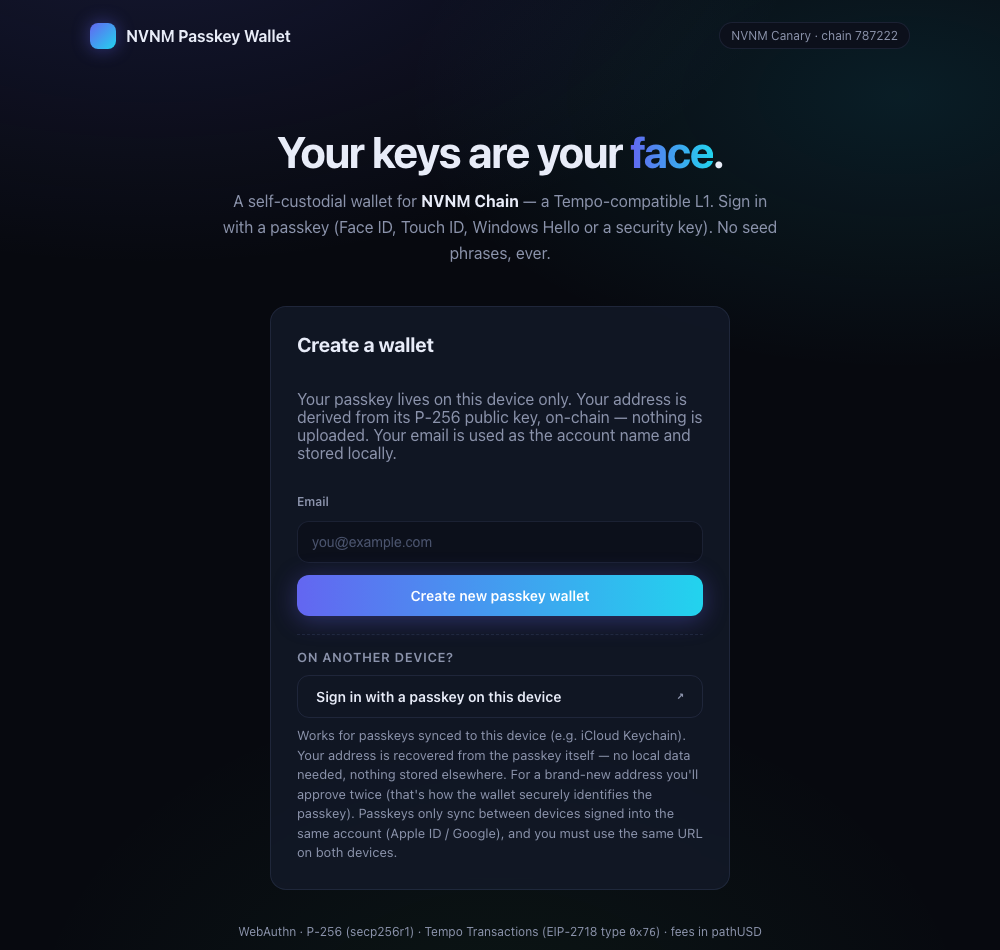
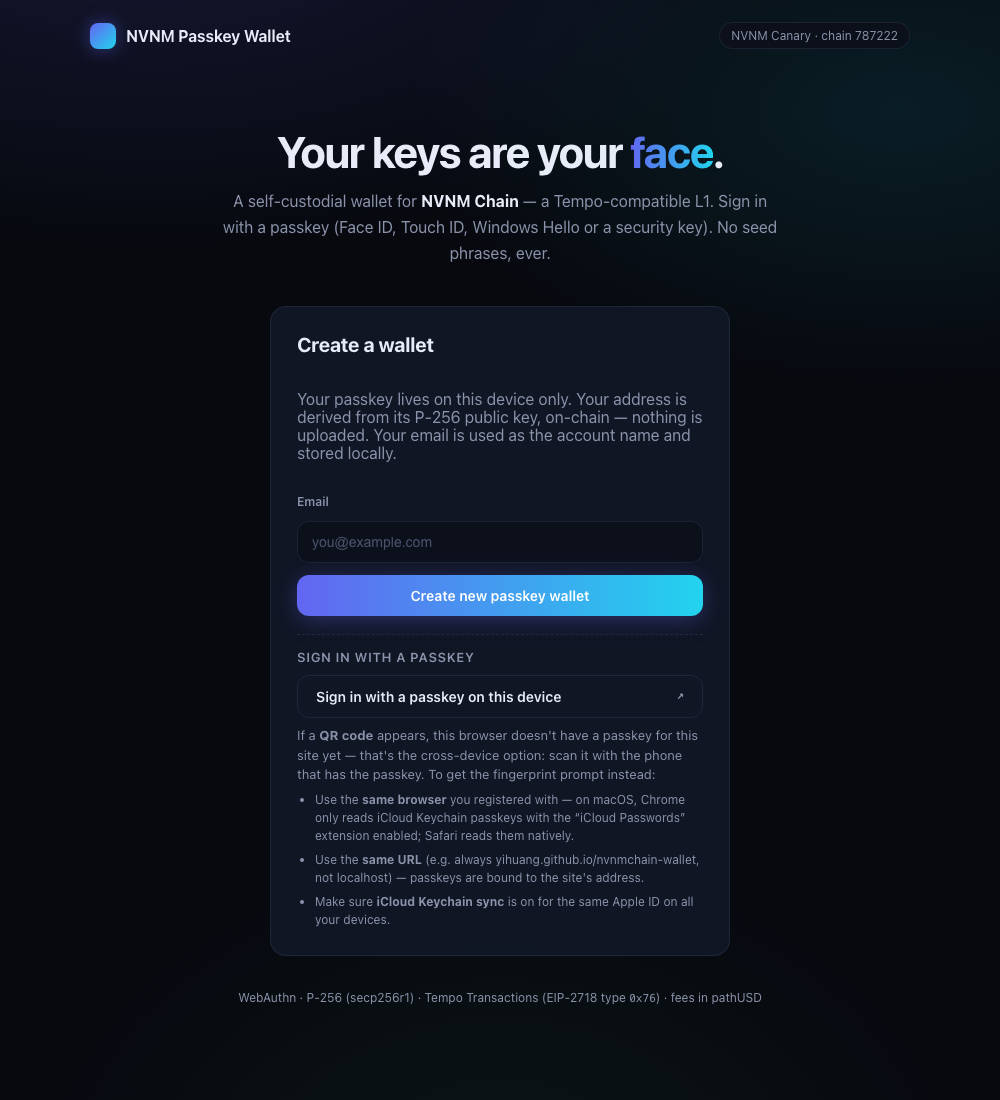
Passkey login UX: explain the QR fallback, prefer Touch ID
When a QR code appears instead of a fingerprint prompt, the browser has no
passkey for this site locally — it's the cross-device option. The connect
screen now explains the three causes (browser mismatch — Chrome needs the
iCloud Passwords extension; URL mismatch — passkeys are origin-bound;
iCloud Keychain sync) and the sign-in flow first tries locally-known
credentials via allowCredentials so Touch ID is prompted directly whenever
the passkey is actually in this browser.

diff --git a/src/components/ConnectScreen.tsx b/src/components/ConnectScreen.tsx
@@ -129,7 +129,7 @@ export function ConnectScreen({
           )}
 
           <div className="existing">
-            <h3>On another device?</h3>
+            <h3>Sign in with a passkey</h3>
             <button
               className="btn ghost existing-row"
               onClick={handleDiscoverableLogin}
@@ -139,14 +139,28 @@ export function ConnectScreen({
               <span className="existing-meta">↗</span>
             </button>
             <p className="muted small cross-device-hint">
-              Works for passkeys synced to this device (e.g. iCloud Keychain).
-              Your address is recovered from the passkey itself — no local data
-              needed, nothing stored elsewhere. For a brand-new address you'll
-              approve twice (that's how the wallet securely identifies the
-              passkey). Passkeys only sync between devices signed into the same
-              account (Apple ID / Google), and you must use the same URL on both
-              devices.
+              If a <strong>QR code</strong> appears, this browser doesn't have a
+              passkey for this site yet — that's the cross-device option: scan it
+              with the phone that has the passkey. To get the fingerprint prompt
+              instead:
             </p>
+            <ul className="cross-device-list">
+              <li>
+                Use the <strong>same browser</strong> you registered with — on
+                macOS, Chrome only reads iCloud Keychain passkeys with the
+                “iCloud Passwords” extension enabled; Safari reads them
+                natively.
+              </li>
+              <li>
+                Use the <strong>same URL</strong> (e.g. always
+                yihuang.github.io/nvnmchain-wallet, not localhost) — passkeys
+                are bound to the site's address.
+              </li>
+              <li>
+                Make sure <strong>iCloud Keychain sync</strong> is on for the
+                same Apple ID on all your devices.
+              </li>
+            </ul>
           </div>
 
           {error && <div className="error">{error}</div>}

diff --git a/src/lib/passkey.ts b/src/lib/passkey.ts
@@ -116,6 +116,19 @@ export async function loginPasskey(
 export async function loginWithDiscoverablePasskey(): Promise<WalletAccount> {
   const rpId = window.location.hostname
 
+  // Prefer locally-known credentials for this RP first: an allowCredentials
+  // request prompts the platform authenticator directly (Touch ID) instead of
+  // offering the cross-device QR flow. Only fall through when the credential
+  // is no longer available in this browser (e.g. a new browser profile).
+  const local = keystore.listCredentials().filter((c) => c.rpId === rpId)
+  for (const c of local) {
+    try {
+      return await loginPasskey(c.id)
+    } catch {
+      // credential not in this browser's authenticator → keep going
+    }
+  }
+
   const first = await getAssertionCandidates(rpId)
   let publicKeyHex: OxHex.Hex | null = await disambiguateByOnChainState(
     first.candidates,

diff --git a/src/styles.css b/src/styles.css
@@ -176,6 +176,17 @@ code,
   margin: 6px 0 0;
 }
 
+.cross-device-list {
+  margin: 6px 0 0;
+  padding-left: 18px;
+  display: flex;
+  flex-direction: column;
+  gap: 6px;
+  color: var(--muted);
+  font-size: 12px;
+  line-height: 1.5;
+}
+
 .muted {
   color: var(--muted);
 }
